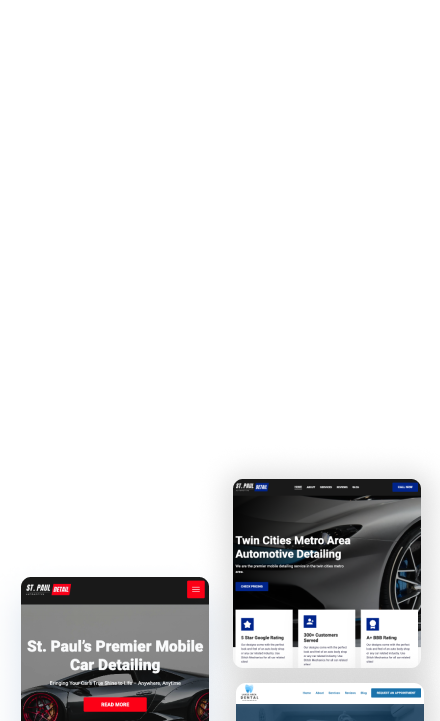
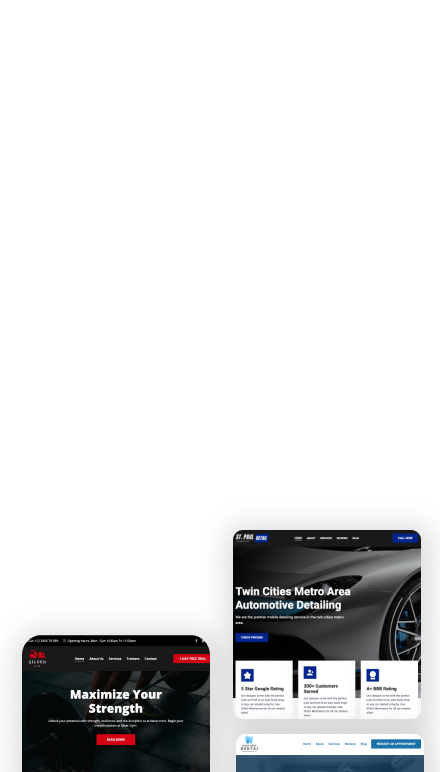
Change mobile hero images for responsiveness and clarity

Changed region(s): [[0.5318, 0.6408, 0.975, 1.0], [0.0295, 0.7933, 0.5023, 1.0]]

diff --git a/src/assets/less/root.less b/src/assets/less/root.less
@@ -85,8 +85,9 @@
         font-weight: bold;
 
         // Transition Properties
-        transition: color 0.3s;
-        transition-delay: 0.1s;
+        // transition: color 0.3s;
+
+        // transition-delay: 0.1s;
         text-align: center;
 
         &:hover {
@@ -1608,6 +1609,17 @@ html {
             opacity: .8;
         }
 
+        .cs-button-solid {
+            background: transparent;
+            color: var(--bodyTextColorWhite);
+            border: 2px solid var(--bodyTextColorWhite);
+
+            &:hover {
+                color: #dcd9d9;
+                border: 2px solid #dcd9d9;
+            }
+        }
+
         .cs-picture {
             height: 100%;
             width: 100%;
@@ -1626,7 +1638,7 @@ html {
                 height: 100%;
                 width: 100%;
                 background: #0d3b69;
-                opacity: 0.7;
+                opacity: 0.83;
                 top: 0;
                 left: 0;
                 z-index: 1;

diff --git a/src/index.html b/src/index.html
@@ -92,8 +92,9 @@ eleventyNavigation:
     <!-- Background Image -->
     <picture class="cs-background">
         <source media="(max-width: 414px)" srcset="../assets/images/hero-mobile.png">
-        <source media="(max-width: 538px)" srcset="../assets/images/hero-mobile-2.png">
-        <source media="(max-width: 777px)" srcset="../assets/images/hero-mobile-3.png">
+        <source media="(max-width: 474px)" srcset="../assets/images/hero-mobile-2.png">
+        <source media="(max-width: 570px)" srcset="../assets/images/hero-mobile-3.png">
+        <source media="(max-width: 777px)" srcset="../assets/images/hero-mobile-4.png">
         <source media="(min-width: 777px)" srcset="../assets/images/hero.jpg">
         <img loading="lazy" decoding="async" src="../assets/images/hero.jpg" alt="dna strand" width="1920" height="1200" aria-hidden="true">
     </picture>

diff --git a/src/assets/css/root.css b/src/assets/css/root.css
@@ -72,8 +72,6 @@
     font-size: 1rem;
     line-height: 3.125em;
     font-weight: bold;
-    transition: color 0.3s;
-    transition-delay: 0.1s;
     text-align: center;
   }
   .cs-button-solid:hover {
@@ -1319,6 +1317,15 @@ html {
     margin: 0 0 2rem 0;
     opacity: 0.8;
   }
+  #cta-52 .cs-button-solid {
+    background: transparent;
+    color: var(--bodyTextColorWhite);
+    border: 2px solid var(--bodyTextColorWhite);
+  }
+  #cta-52 .cs-button-solid:hover {
+    color: #dcd9d9;
+    border: 2px solid #dcd9d9;
+  }
   #cta-52 .cs-picture {
     height: 100%;
     width: 100%;
@@ -1336,7 +1343,7 @@ html {
     height: 100%;
     width: 100%;
     background: #0d3b69;
-    opacity: 0.7;
+    opacity: 0.83;
     top: 0;
     left: 0;
     z-index: 1;

diff --git a/src/assets/less/local.less b/src/assets/less/local.less
@@ -585,6 +585,17 @@
             gap: (16/16rem);
         }
 
+        .cs-button-solid {
+            background: transparent;
+            color: var(--bodyTextColorWhite);
+            border: 2px solid var(--bodyTextColorWhite);
+
+            &:hover {
+                color: #dcd9d9;
+                border: 2px solid #dcd9d9;
+            }
+        }
+
         .cs-background {
             width: 100%;
             height: 100%;

diff --git a/src/assets/css/local.css b/src/assets/css/local.css
@@ -492,6 +492,15 @@
     justify-content: center;
     gap: 1rem;
   }
+  #cta-1071 .cs-button-solid {
+    background: transparent;
+    color: var(--bodyTextColorWhite);
+    border: 2px solid var(--bodyTextColorWhite);
+  }
+  #cta-1071 .cs-button-solid:hover {
+    color: #dcd9d9;
+    border: 2px solid #dcd9d9;
+  }
   #cta-1071 .cs-background {
     width: 100%;
     height: 100%;
